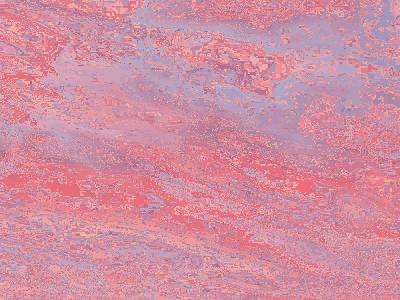
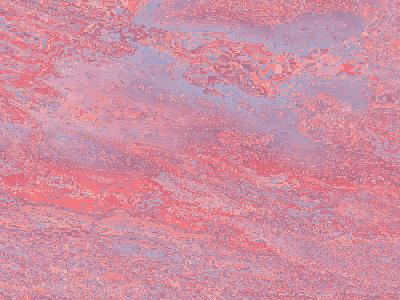
Rutas relativas

diff --git a/src/main.py b/src/main.py
@@ -3,16 +3,16 @@ import matplotlib.pyplot as plt
 from algoritmo.k_means import*
 from PIL import Image
 
-imagen = Image.open('D:\\Programacion\\Python\\ML\\K-means\\data\\Atardecer.jpeg')
+imagen = Image.open('data\\Atardecer_colorido.jpeg')
 
 array_imagen = np.array(imagen)
 WIDTH = array_imagen.shape[0]
 HEIGHT = array_imagen.shape[1]
 imagen_reordenada = array_imagen.reshape(-1, 3)
 
-num_centroides = 64
+num_centroides = 128
 
-centroides = correr_algoritmo_varias_veces(imagen_reordenada, k=num_centroides, num_iters=16, umbral=0.001, num_veces=16, show=True)
+centroides = correr_algoritmo_varias_veces(imagen_reordenada, k=num_centroides, num_iters=16, umbral=0.001, num_veces=32, show=True)
 centroides_cercanos = calcular_centroides_cercanos(imagen_reordenada, centroides)
 for j in range(num_centroides):
     mask_j = (centroides_cercanos == j)
@@ -21,4 +21,4 @@ for j in range(num_centroides):
 array_imagen_comprimida = imagen_reordenada.reshape(WIDTH, HEIGHT, -1)
 array_imagen_comprimida = array_imagen_comprimida.astype(np.uint8)
 imagen_comprimida = Image.fromarray(array_imagen_comprimida)
-imagen_comprimida.save('D:\\Programacion\\Python\\ML\\K-means\\data\\Atardecer_comprimido_524.jpeg')
+imagen_comprimida.save('data\\Imagen_comprimida_128_1.jpeg')
